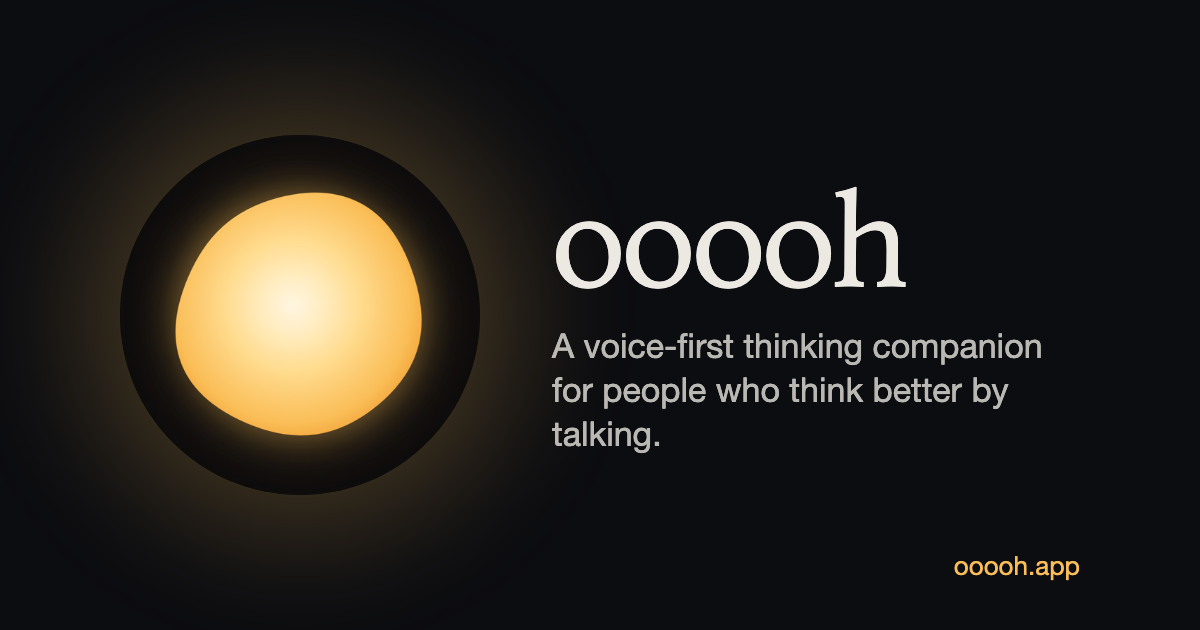
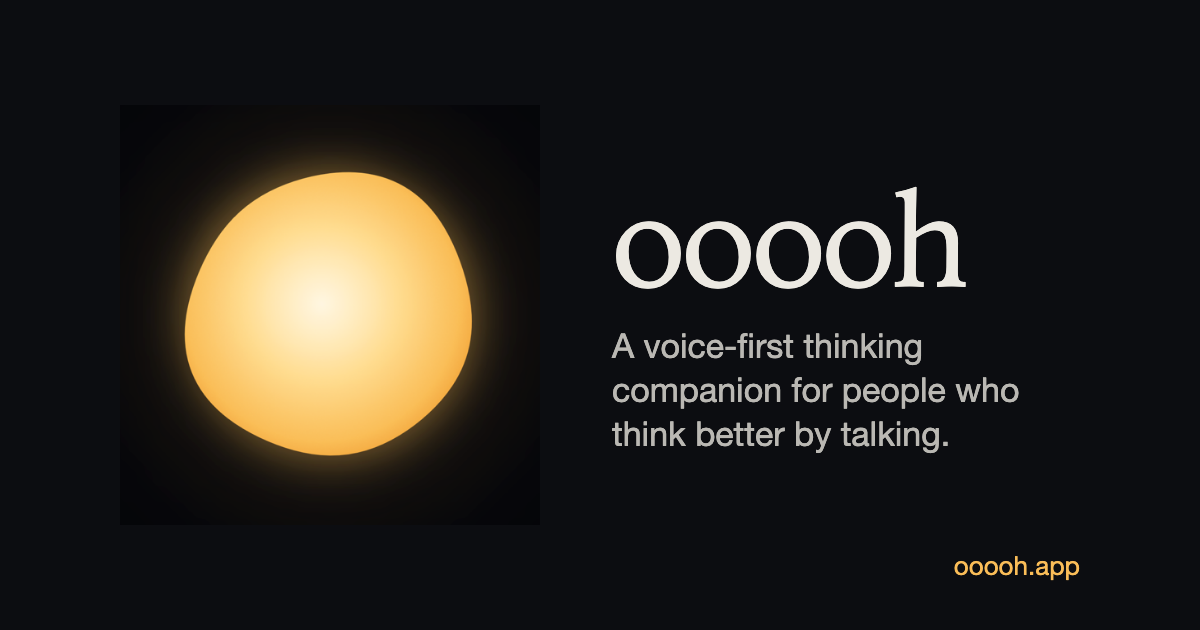
fix(site): the card's orb blends into the sky without a clipped disc

diff --git a/site/og.html b/site/og.html
@@ -25,11 +25,9 @@
         font-family: -apple-system, "Helvetica Neue", Arial, sans-serif;
       }
       .orb {
-        width: 360px;
-        height: 360px;
+        width: 420px;
+        height: 420px;
         flex: none;
-        border-radius: 50%;
-        box-shadow: 0 0 120px 40px rgba(250, 189, 88, 0.22);
       }
       h1 {
         margin: 0 0 18px;
